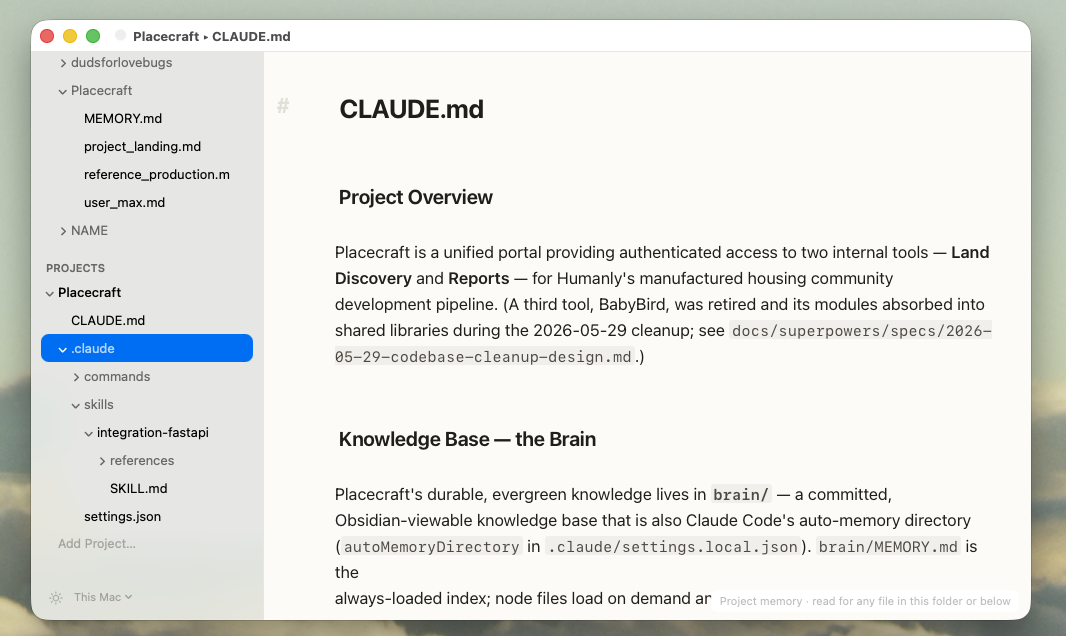
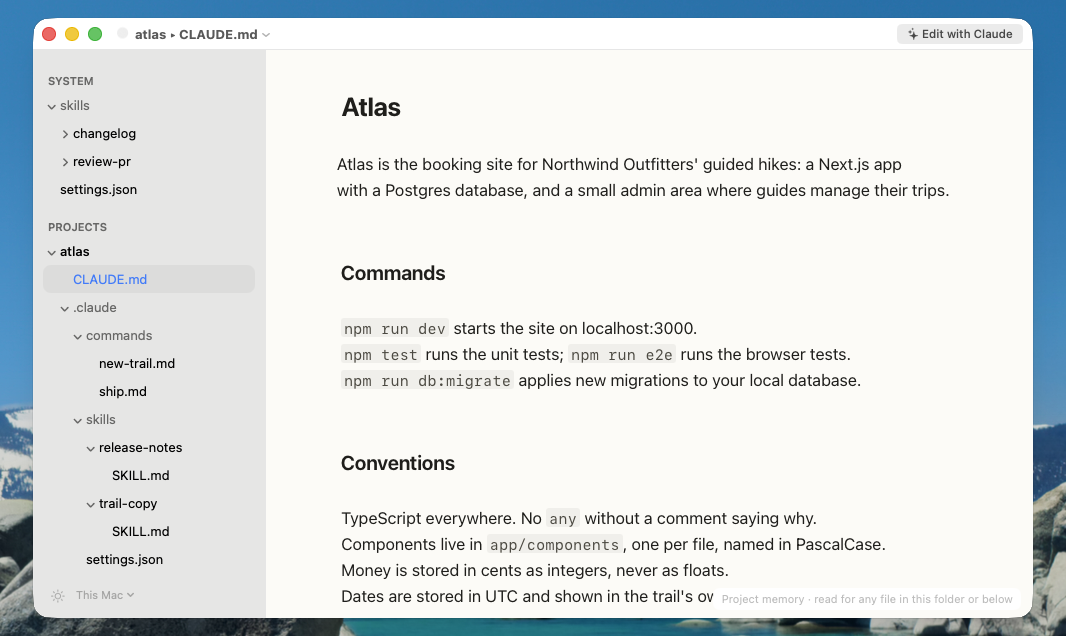
Show Edit with Claude in the README
Five new screenshots walk through a session: the question with lines
selected, Claude working in Terminal beside Crook with the changes
highlighted, the banner when it ends, Review Changes, and Claude Code
asking before it edits a skill. The hero is retaken so it shows the new
title bar button.

Taken by driving the real app through a whole session on a demo project,
capturing only Crook's and Terminal's windows and placing them on the
desktop wallpaper, so nothing personal is in them; Terminal's title,
which names the account, is blanked.

Claude-Session: https://claude.ai/code/session_01H9V3gio9NZn1KPs7YdR2Zf

diff --git a/README.md b/README.md
@@ -108,11 +108,15 @@ appears in a dozen places, turn a section into a checklist, tighten a skill's
 description. Click **Edit with Claude** at the top right of the window, or
 press `⇧⌘E`.
 
+![Asking Claude to turn the release steps into a checklist, with those five lines of CLAUDE.md selected](Assets/screenshots/claude-ask.png)
+
 Say what you want in the box that appears — or leave it empty — and press
 Return. Crook opens Claude Code in Terminal, beside this window, already in the
 right folder and already told which file you mean. If you selected some lines
 first, it knows those too. Talk to Claude there. Every change it saves shows
 up in Crook straight away, highlighted.
+
+![Claude Code in Terminal beside Crook, which highlights the lines Claude just changed and counts them in its banner](Assets/screenshots/claude-working.png)
 
 While Claude has the file it's read-only in Crook, so the two of you never type
 over each other. When you're done, type `/exit` in Terminal, or click **End
@@ -121,6 +125,10 @@ front and says what changed: **Review Changes** shows the diff, and **Undo
 Changes** puts this file back exactly as it was before Claude started. Undo
 covers only this file — other files you let Claude change stay changed — and
 it stays on offer until you click **Done** or type in the file.
+
+![After the session: the banner offers Review Changes, Undo Changes and Done, and the changed lines stay marked](Assets/screenshots/claude-finished.png)
+
+![Review Changes: the lines Claude added and removed in this file](Assets/screenshots/claude-review.png)
 
 You need [Claude Code](https://code.claude.com/docs/en/setup) installed and a
 Claude account; the first time, Claude Code asks you to log in. Crook tells you
@@ -133,6 +141,8 @@ Claude can change most files without asking. Files inside a `.claude` folder —
 skills, commands, agents — are different: Claude Code always asks before it
 changes one, so answer **Yes** in Terminal. If a change needs other files too,
 Claude asks you before it touches them.
+
+![Editing a skill: Crook's banner says Claude Code asks in Terminal before changing it, and Terminal shows the edit with Yes selected](Assets/screenshots/claude-asks.png)
 
 ---
 
